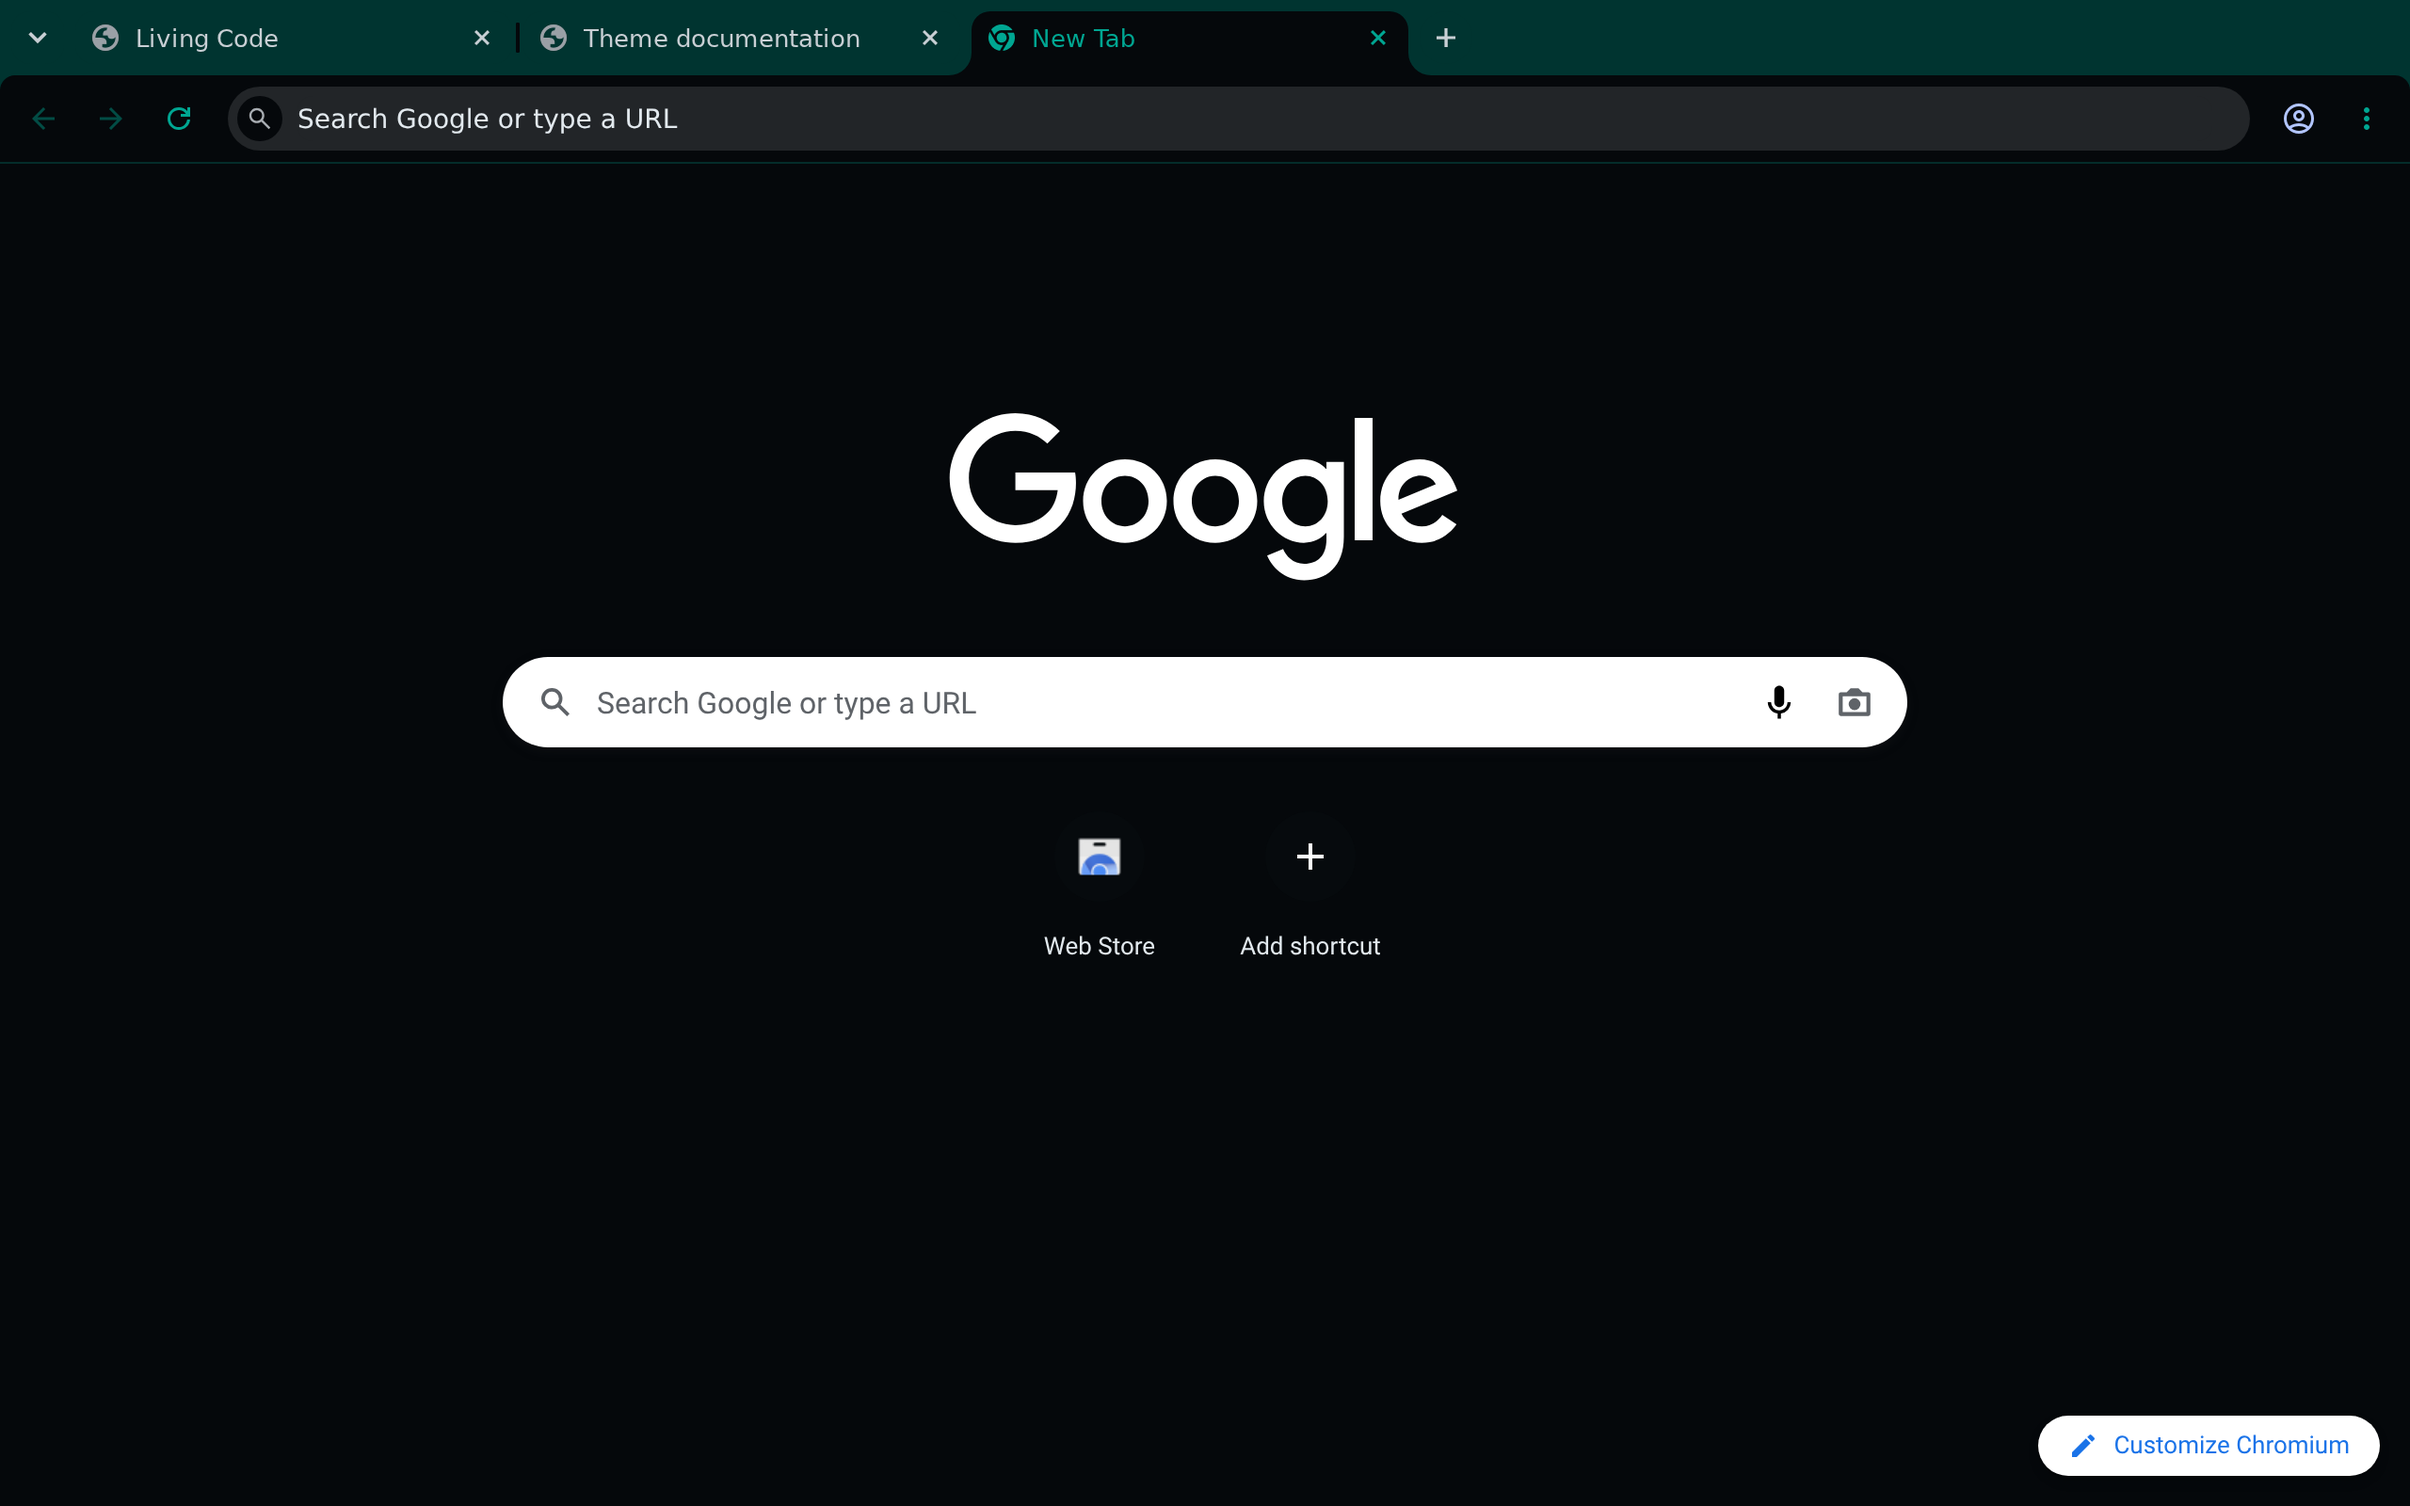
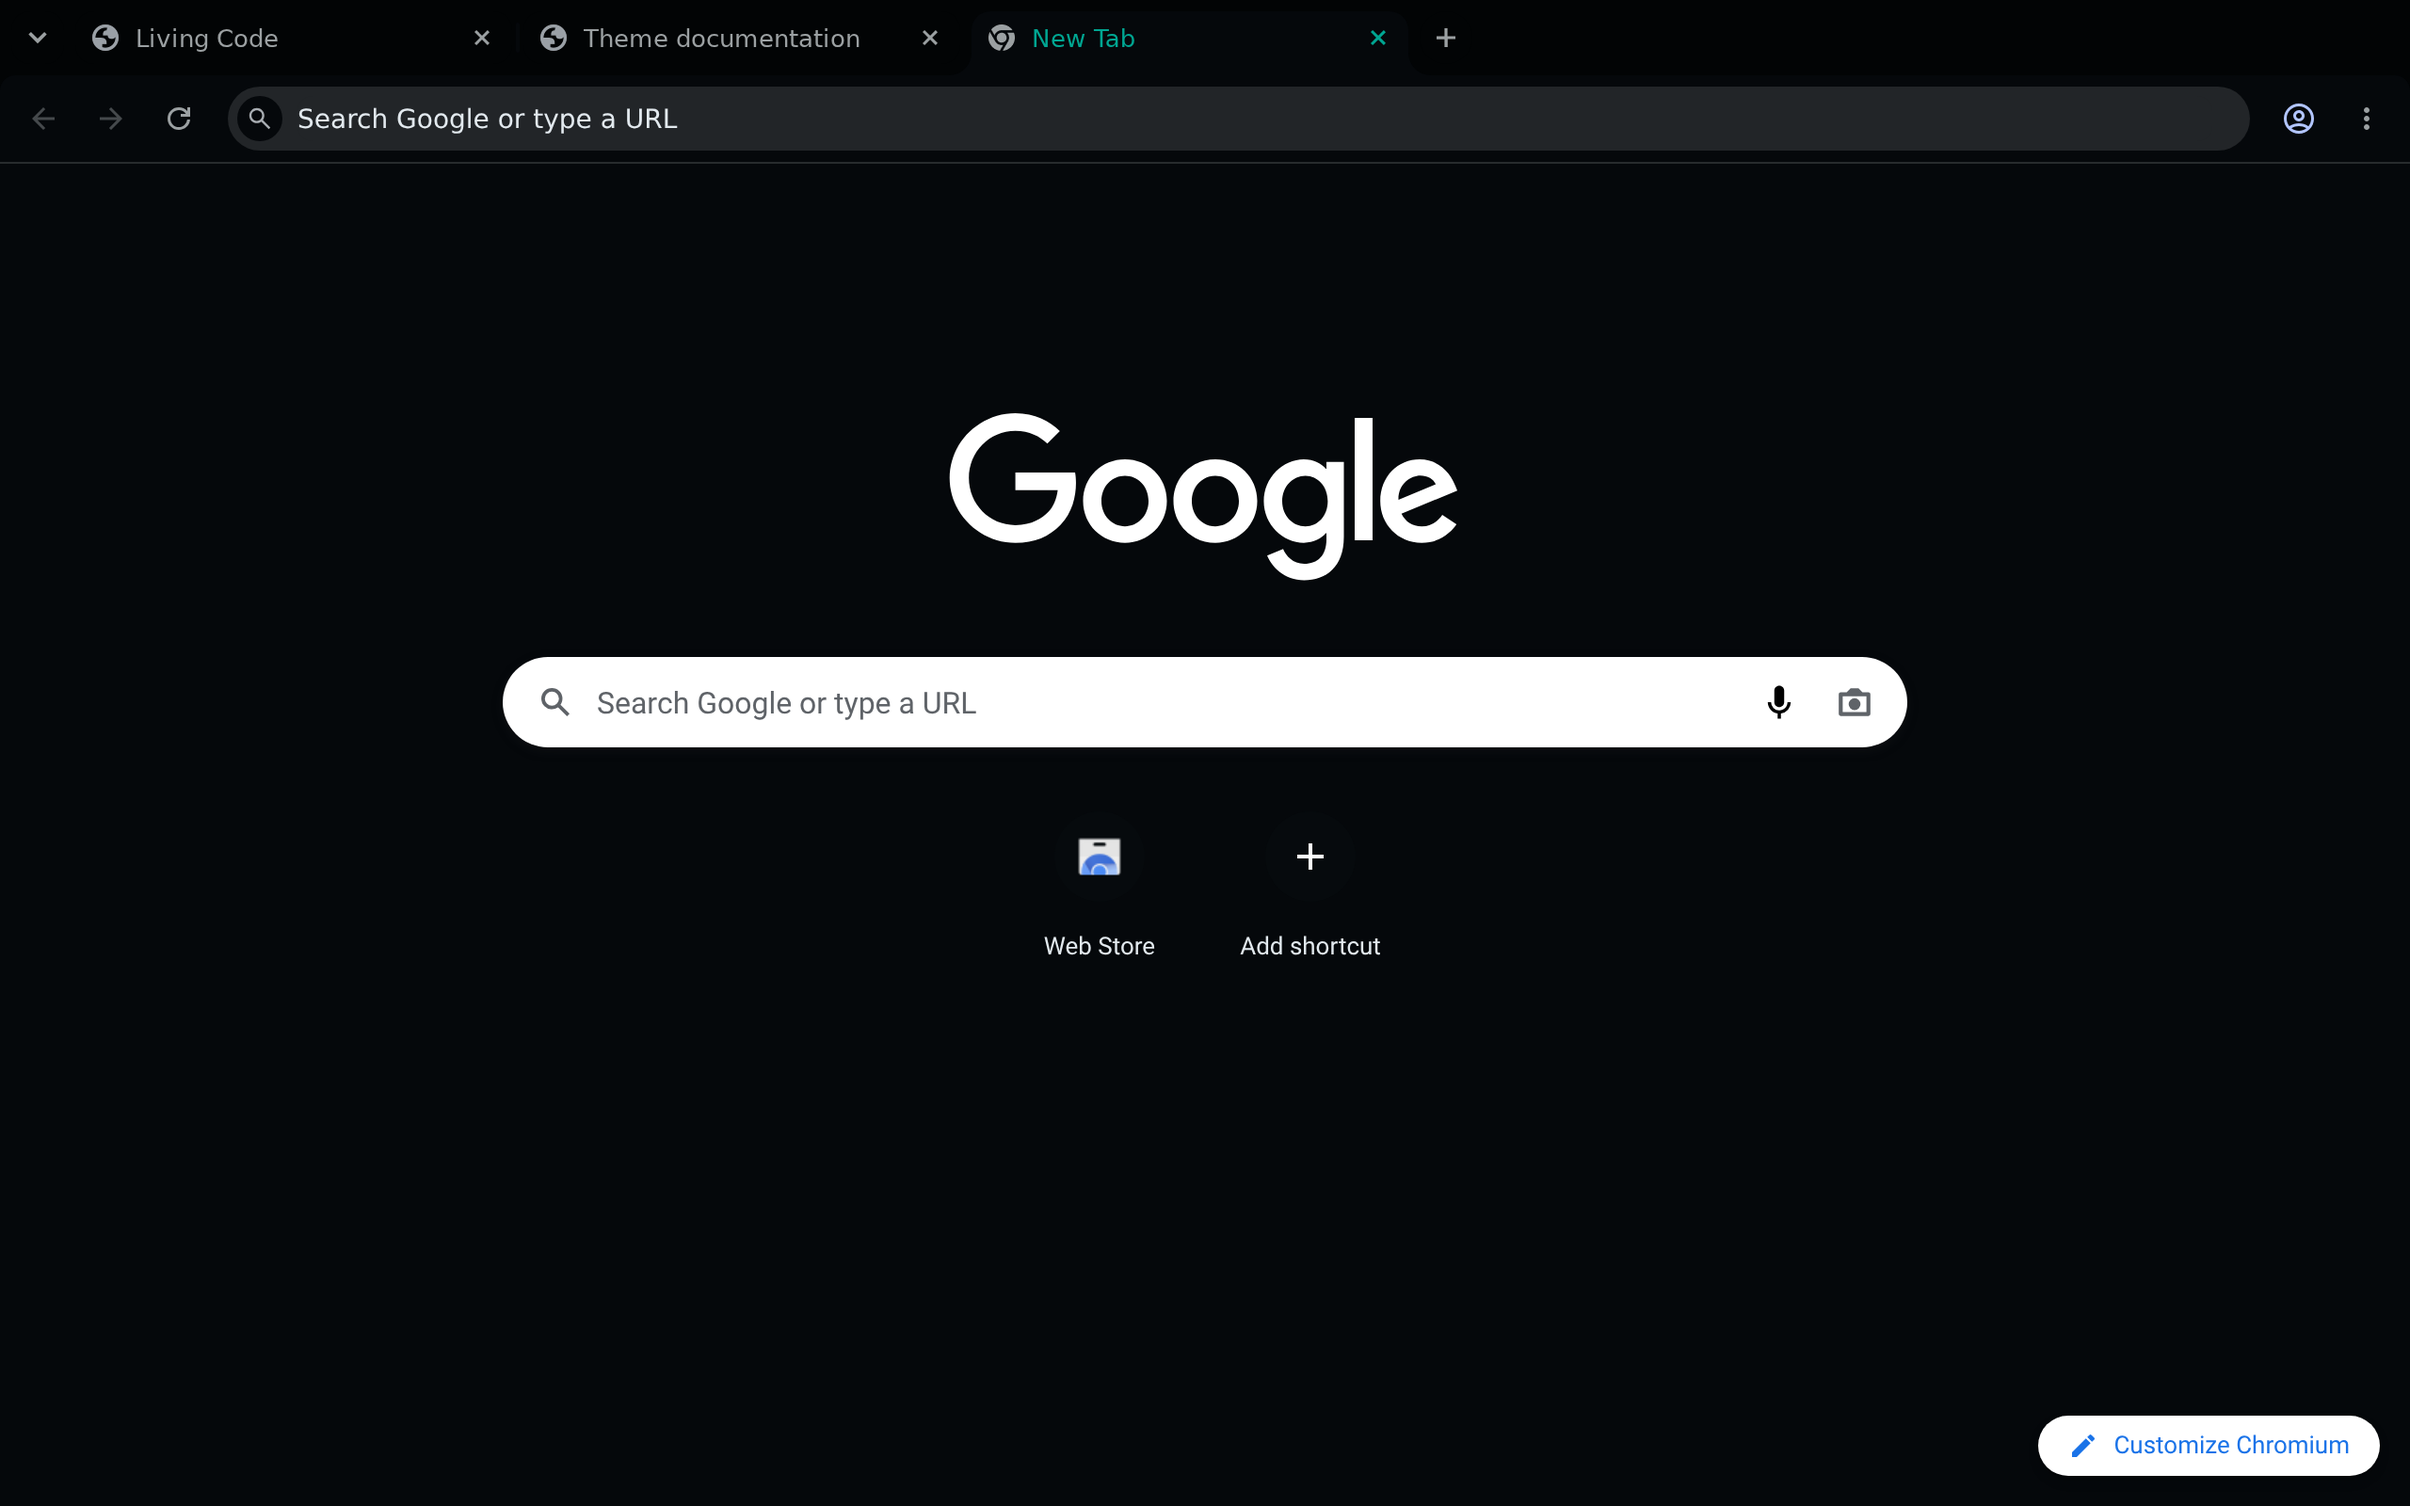
fix: use neutral Firefox-style browser surfaces with restrained teal accents

Changed region(s): [[0.0, 0.0, 1.0, 0.0625]]

diff --git a/README.md b/README.md
@@ -5,7 +5,7 @@
 
 # 🌐 Living Code for Chrome, Brave and Chromium
 
-**Calm slate. Living color.**<br>Dark Night and light Paper themes with teal-tinted tabs and teal toolbar accents.
+**Calm slate. Living color.**<br>Dark Night and light Paper themes with neutral slate surfaces and restrained teal accents.
 
 <img src="https://raw.githubusercontent.com/living-code-theme/core/main/assets/swatches/00a692.svg" width="14" height="14" alt="teal #00a692"> <img src="https://raw.githubusercontent.com/living-code-theme/core/main/assets/swatches/52d7c1.svg" width="14" height="14" alt="mint #52d7c1"> <img src="https://raw.githubusercontent.com/living-code-theme/core/main/assets/swatches/9ae0dd.svg" width="14" height="14" alt="aqua #9ae0dd"> <img src="https://raw.githubusercontent.com/living-code-theme/core/main/assets/swatches/80b6d3.svg" width="14" height="14" alt="steel #80b6d3"> <img src="https://raw.githubusercontent.com/living-code-theme/core/main/assets/swatches/8acb83.svg" width="14" height="14" alt="moss #8acb83"> <img src="https://raw.githubusercontent.com/living-code-theme/core/main/assets/swatches/f0be6d.svg" width="14" height="14" alt="amber #f0be6d"> <img src="https://raw.githubusercontent.com/living-code-theme/core/main/assets/swatches/e18c5f.svg" width="14" height="14" alt="copper #e18c5f"> <img src="https://raw.githubusercontent.com/living-code-theme/core/main/assets/swatches/e96560.svg" width="14" height="14" alt="flare #e96560"> <img src="https://raw.githubusercontent.com/living-code-theme/core/main/assets/swatches/bf91cd.svg" width="14" height="14" alt="orchid #bf91cd"> <img src="https://raw.githubusercontent.com/living-code-theme/core/main/assets/swatches/ddaec3.svg" width="14" height="14" alt="rose #ddaec3">
 
@@ -23,12 +23,12 @@
 <table data-lc-flavors>
 <tr>
 <td width="50%" valign="top">
-<strong>Night</strong><br><sub>Dark · teal-accented slate</sub><br><br>
-<a href="images/night.png"><img src="images/night.png" alt="Real Chromium in English with Living Code Night: dark slate, teal tabs and toolbar icons" width="640"></a>
+<strong>Night</strong><br><sub>Dark · neutral slate</sub><br><br>
+<a href="images/night.png"><img src="images/night.png" alt="Real Chromium in English with Living Code Night: dark slate surfaces and a small teal active-tab accent" width="640"></a>
 </td>
 <td width="50%" valign="top">
 <strong>Paper</strong><br><sub>Light · near-white slate</sub><br><br>
-<a href="images/paper.png"><img src="images/paper.png" alt="Real Chromium in English with Living Code Paper: light slate, teal tabs and toolbar icons" width="640"></a>
+<a href="images/paper.png"><img src="images/paper.png" alt="Real Chromium in English with Living Code Paper: light slate surfaces and a small teal active-tab accent" width="640"></a>
 </td>
 </tr>
 </table>
@@ -51,9 +51,9 @@ To switch themes, install the other one, or use **Settings → Appearance → Re
 Expand a flavor for its full-size preview and activation instructions.
 
 <details data-lc-flavor="night">
-<summary><strong>Night</strong> · Dark · teal-accented slate</summary>
+<summary><strong>Night</strong> · Dark · neutral slate</summary>
 
-<p><a href="images/night.png"><img src="images/night.png" alt="Real Chromium in English with Living Code Night: dark slate, teal tabs and toolbar icons" width="1280"></a></p>
+<p><a href="images/night.png"><img src="images/night.png" alt="Real Chromium in English with Living Code Night: dark slate surfaces and a small teal active-tab accent" width="1280"></a></p>
 
 Load the `living-code-night` folder using *chrome://extensions → Developer mode → Load unpacked*, or the matching store theme when listed.
 
@@ -62,7 +62,7 @@ Load the `living-code-night` folder using *chrome://extensions → Developer mod
 <details data-lc-flavor="paper">
 <summary><strong>Paper</strong> · Light · near-white slate</summary>
 
-<p><a href="images/paper.png"><img src="images/paper.png" alt="Real Chromium in English with Living Code Paper: light slate, teal tabs and toolbar icons" width="1280"></a></p>
+<p><a href="images/paper.png"><img src="images/paper.png" alt="Real Chromium in English with Living Code Paper: light slate surfaces and a small teal active-tab accent" width="1280"></a></p>
 
 Load the `living-code-paper` folder using *chrome://extensions → Developer mode → Load unpacked*, or the matching store theme when listed.
 
@@ -70,12 +70,14 @@ Load the `living-code-paper` folder using *chrome://extensions → Developer mod
 
 ## Configuration
 
-Teal appears on the tab strip, toolbar icons and supported active-tab details. Night keeps the browsing surface
-dark; Paper keeps it near-white. Active, inactive and incognito tab-strip mappings are defined separately.
+Neutral slate tab strips, toolbar surfaces and navigation icons follow the Firefox port's surface hierarchy.
+Teal is limited to small active-tab details and supported New Tab links, rather than tinting whole surfaces.
+Night stays dark; Paper stays near-white.
 
-Chrome controls some UI independently of extension themes: focus rings, profile buttons and parts of its New Tab
-search/customization UI may retain browser-selected colors. A theme does not recolor websites or change your
-browser's language. Brave and other Chromium versions may apply these mappings differently.
+Chrome's theme API does not expose Firefox's tab-outline or address-field focus-border colors. Chrome also
+controls profile buttons and parts of its New Tab search/customization UI independently. A theme does not
+recolor websites or change your browser's language. Brave and other Chromium versions may apply these mappings
+differently.
 
 Use the activation instructions above and keep your other application configuration.
 
